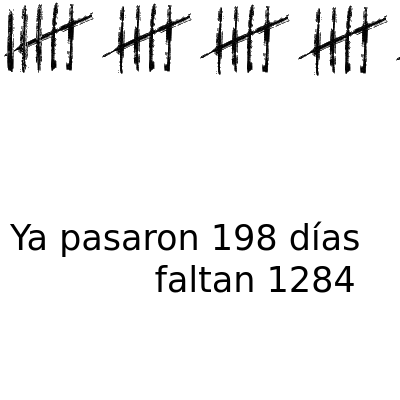
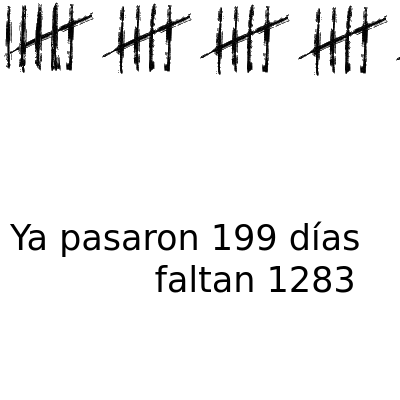
deploy: 28882f26f23b9f53dac6c4991168e610486d0e44

Changed region(s): [[0.0, 0.0, 0.15, 0.18], [0.84, 0.66, 0.9, 0.75], [0.63, 0.57, 0.69, 0.63]]

diff --git a/index.html b/index.html
@@ -3,19 +3,19 @@
   <head>
     <meta charset='utf-8'>
     <meta http-equiv='X-UA-Compatible' content='IE=edge'>
-    <title>Ya pasaron 198 días y faltan 1284</title>
-    <meta name="description" content="Ya pasaron 198 días y faltan 1284">
-    <meta itemprop="name" content="Ya pasaron 198 días y faltan 1284">
-    <meta itemprop="description" content="Ya pasaron 198 días y faltan 1284">
+    <title>Ya pasaron 199 días y faltan 1283</title>
+    <meta name="description" content="Ya pasaron 199 días y faltan 1283">
+    <meta itemprop="name" content="Ya pasaron 199 días y faltan 1283">
+    <meta itemprop="description" content="Ya pasaron 199 días y faltan 1283">
     <meta name="twitter:card" content="summary">
-    <meta name="twitter:title" content="Ya pasaron 198 días y faltan 1284">
-    <meta name="twitter:description" content="Ya pasaron 198 días y faltan 1284">
+    <meta name="twitter:title" content="Ya pasaron 199 días y faltan 1283">
+    <meta name="twitter:description" content="Ya pasaron 199 días y faltan 1283">
     <meta name="twitter:creator" content="@FloriusWasTaken">
     <meta name="twitter:image" content="https://pasaron.meme.ar/capture.png">
-    <meta property="og:title" content="Ya pasaron 198 días y faltan 1284">
-    <meta property="og:description" content="Ya pasaron 198 días y faltan 1284">
+    <meta property="og:title" content="Ya pasaron 199 días y faltan 1283">
+    <meta property="og:description" content="Ya pasaron 199 días y faltan 1283">
     <meta property="og:url" content="https://pasaron.meme.ar">
-    <meta property="og:site_name" content="Ya pasaron 198 días y faltan 1284">
+    <meta property="og:site_name" content="Ya pasaron 199 días y faltan 1283">
     <meta property="og:type" content="website">
     <meta property="og:image" content="https://pasaron.meme.ar/capture.png">
     <meta name="theme-color" content="#dc143c">
@@ -69,18 +69,18 @@
         padding: 0;
       }
     </style>
-    <title>Ya pasaron 198 días y faltan 1284</title>
+    <title>Ya pasaron 199 días y faltan 1283</title>
   </head>
   <body>
     <div id="main">
       <img src="img/5.png"/><img src="img/5.png"/><img src="img/5.png"/><img src="img/5.png"/><img src="img/5.png"/><img src="img/5.png"/><img src="img/5.png"/><img src="img/5.png"/><img src="img/5.png"/><img src="img/5.png"/><img src="img/5.png"/><img src="img/5.png"/><img src="img/5.png"/><img src="img/5.png"/><img src="img/5.png"/><img src="img/5.png"/><img src="img/5.png"/><img src="img/5.png"/><img src="img/5.png"/><img src="img/5.png"/><img src="img/5.png"/><img src="img/5.png"/><img src="img/5.png"/><img src="img/5.png"/><img src="img/5.png"/><img src="img/5.png"/><img src="img/5.png"/><img src="img/5.png"/><img src="img/5.png"/><img src="img/5.png"/><img src="img/5.png"/><img src="img/5.png"/><img src="img/5.png"/><img src="img/5.png"/><img src="img/5.png"/><img src="img/5.png"/><img src="img/5.png"/><img src="img/5.png"/><img src="img/5.png"/>
       
-        <img src="img/3.png"/>
+        <img src="img/4.png"/>
       
     </div>
     <footer id="footer">
       <marquee id="marquee" class="is-vertical-align">
-        Ya pasaron 198 días y faltan 1284
+        Ya pasaron 199 días y faltan 1283
       </marquee>
       <ul>
         <li>
